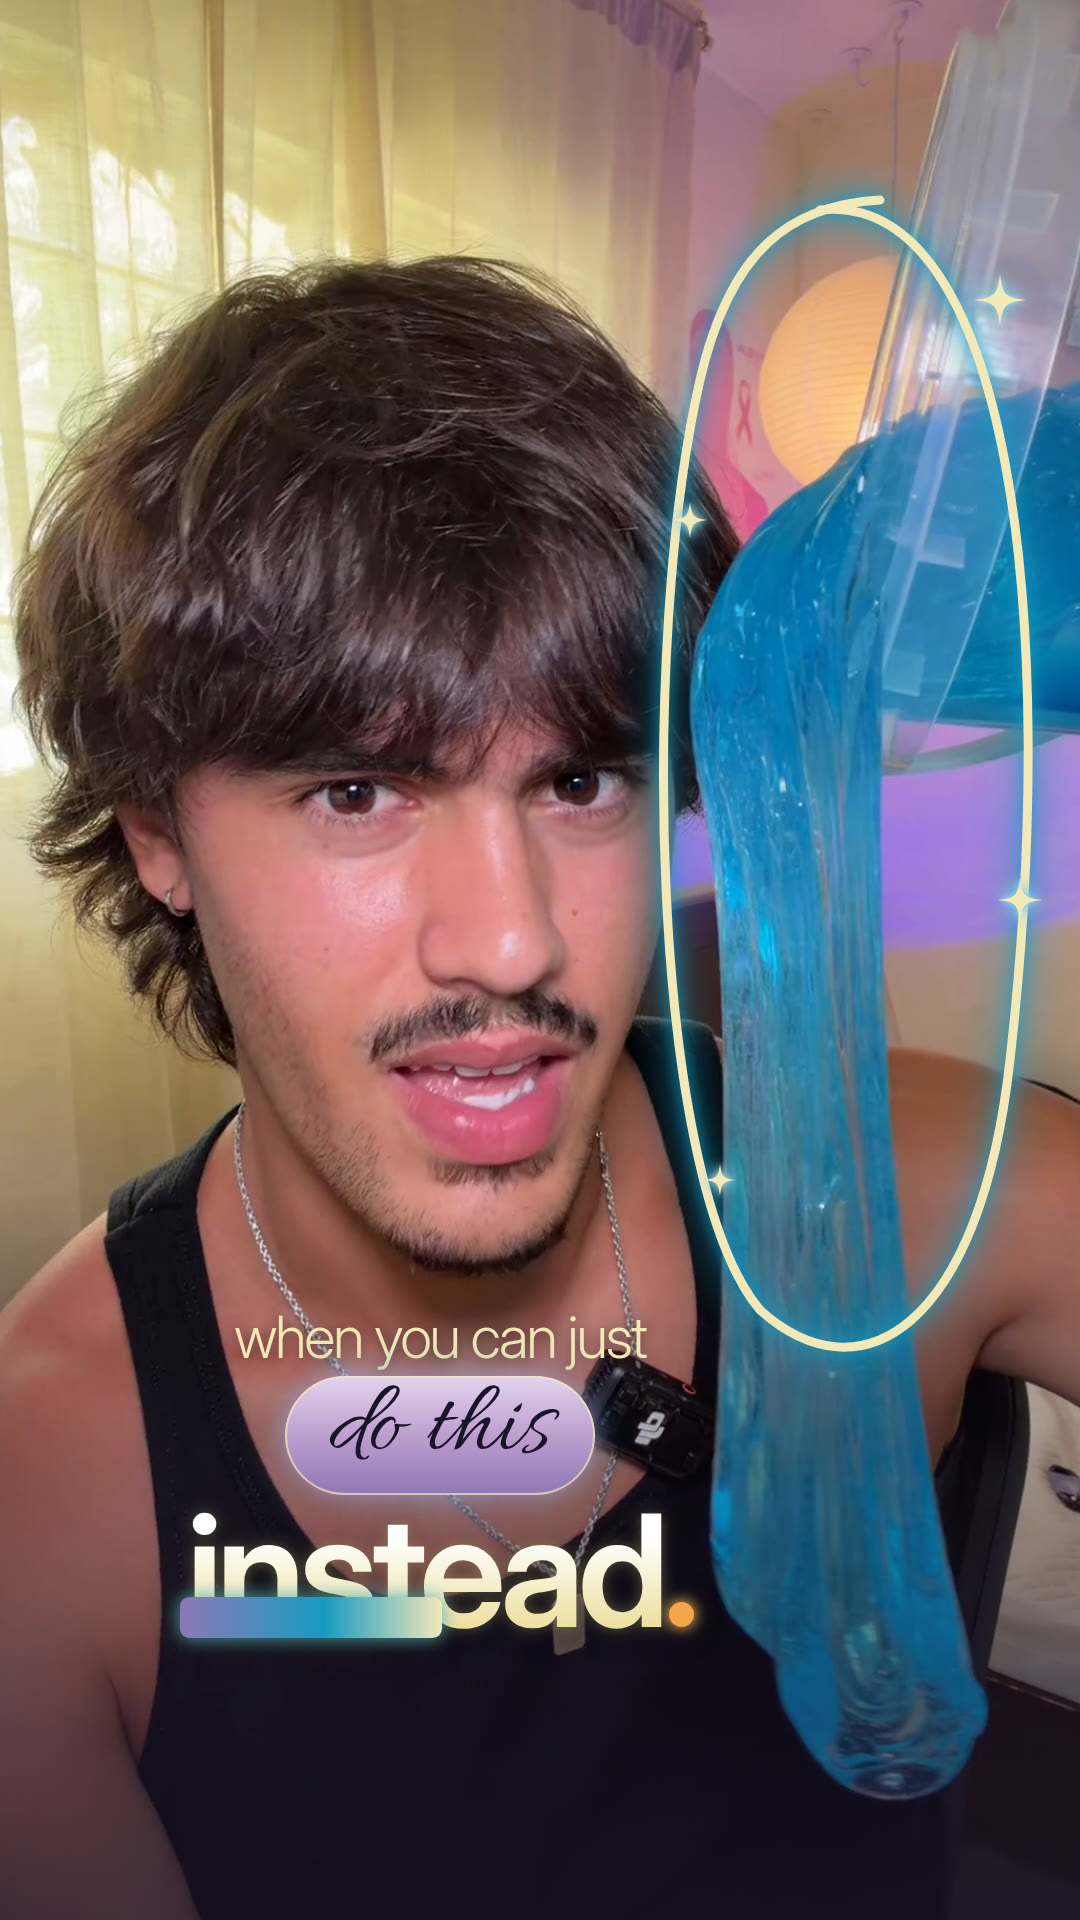
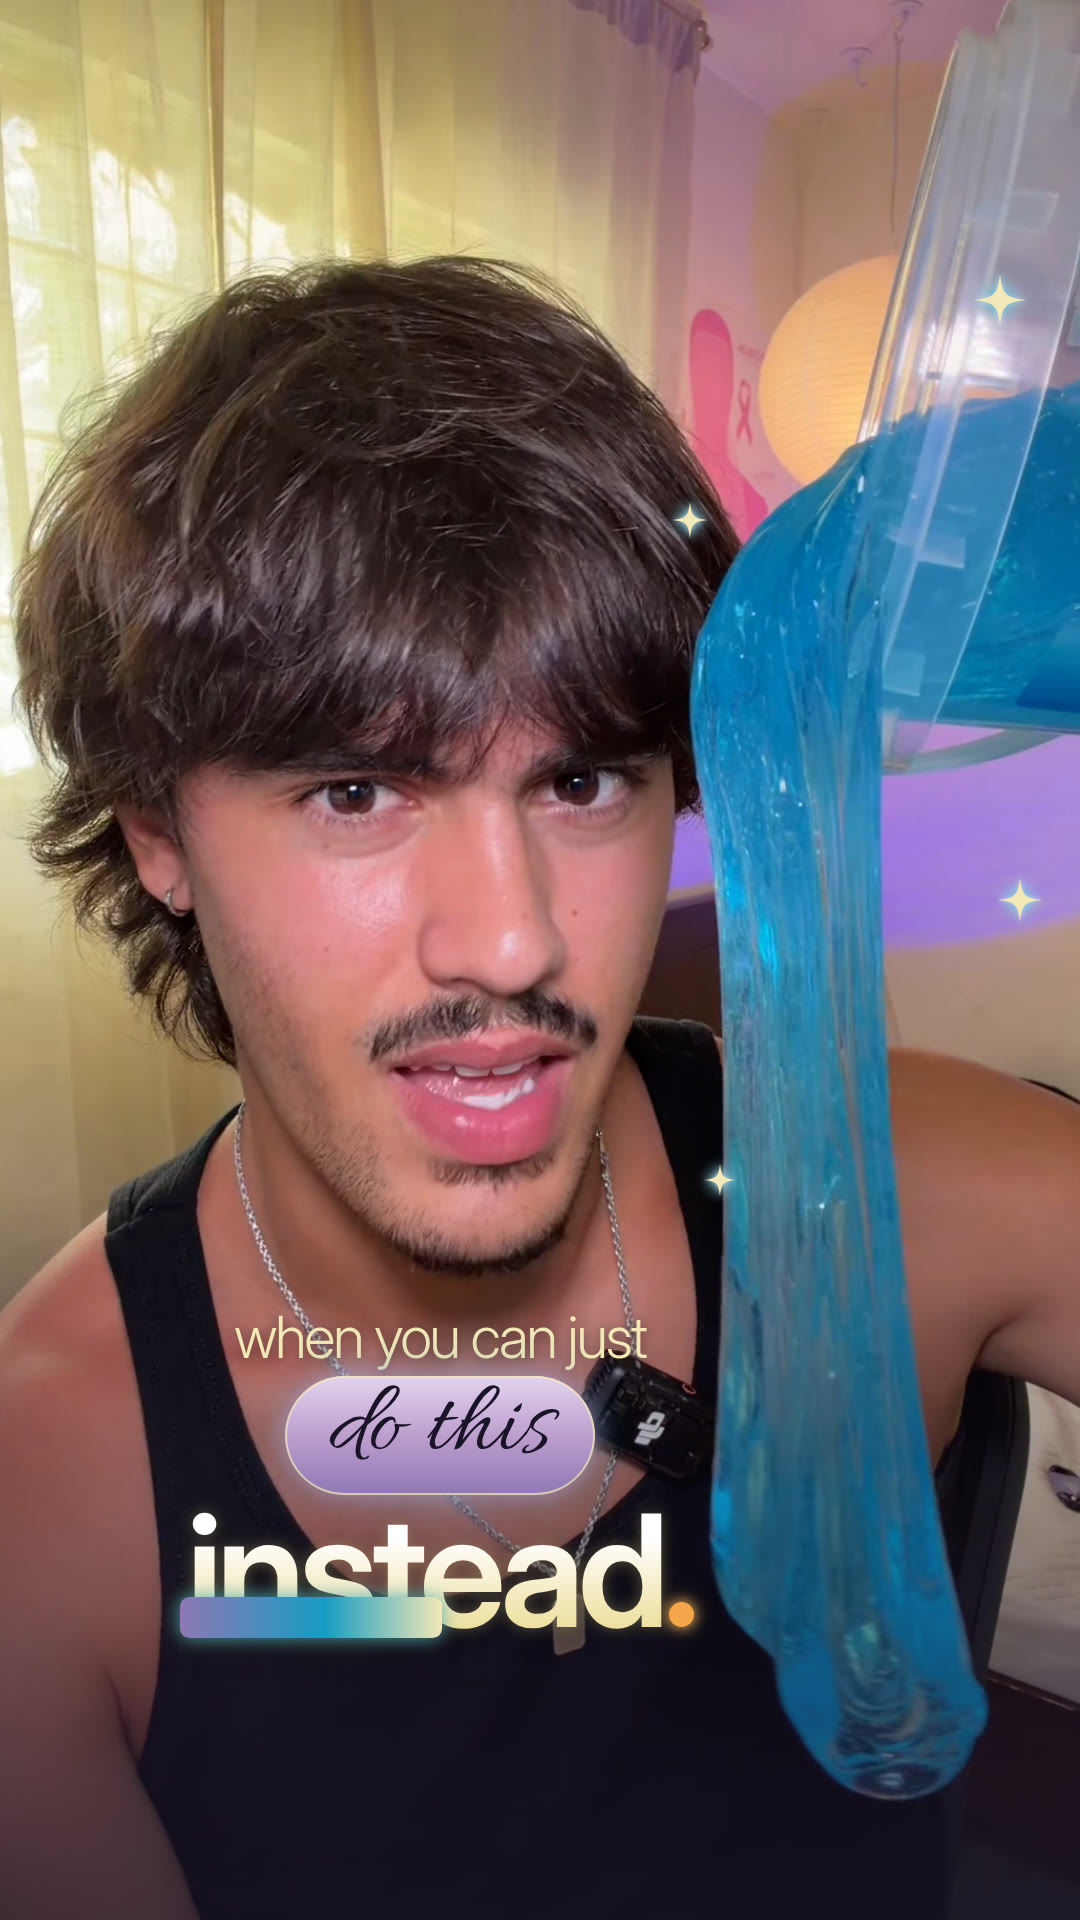
Storyboard v2.1: remove ring around the slime; record rejection in house style
Claude-Session: https://claude.ai/code/session_01YWNjHAUsnSqA5X69RXENKc

Changed region(s): [[0.5806, 0.0938, 0.9778, 0.7188]]

diff --git a/edits/bmw-m4-28-days/preview_v2/gen_preview_v2.py b/edits/bmw-m4-28-days/preview_v2/gen_preview_v2.py
@@ -205,10 +205,10 @@ FR["P03"] = dict(still="still_63.png", cut="cut_63.png", behind=title_block(), f
     label="f63 · 0:02.1 · NAME HIT — “PART-TIME” lands f43, “JOB” f57 behind the head · ghost trail · pixel clusters")
 FR["P04"] = dict(still="still_74.png", cut="cut_74.png", behind=title_block(strike=1, ghost=False) + slash(1), front=cap(setup(["when", "you", "can", "just"], 1, 1)),
     label="f74 · 0:02.5 · STRIKE — amber ink slash rips through the title on “when” · title drains colour, then drops away")
-FR["P05"] = dict(still="still_100.png", zoom=1.04, origin="850px 760px", front=ring(.45) + cap(setup(["when", "you", "can", "just"], 4, 0), pill("do this")),
-    label="f100 · 0:03.3 · “this” — camera eases toward the slime · hand-drawn ring starts circling it")
-FR["P06"] = dict(still="still_110.png", zoom=1.05, origin="850px 760px", front=ring(1) + sparkles([(1000,300,26),(690,520,18),(1020,900,22),(720,1180,16)]) + cap(setup(["when", "you", "can", "just"], 4, 0), pill("do this"), heavy("instead", 156, bar="55%")),
-    label="f110 · 0:03.7 · “instead.” blooms + highlight bar · ring closed · cyan-white sparkles twinkle on the slime")
+FR["P05"] = dict(still="still_100.png", zoom=1.04, origin="850px 760px", front=cap(setup(["when", "you", "can", "just"], 4, 0), pill("do this")),
+    label="f100 · 0:03.3 · “this” — camera eases toward the slime (focus pull)")
+FR["P06"] = dict(still="still_110.png", zoom=1.05, origin="850px 760px", front=sparkles([(1000,300,26),(690,520,18),(1020,900,22),(720,1180,16)]) + cap(setup(["when", "you", "can", "just"], 4, 0), pill("do this"), heavy("instead", 156, bar="55%")),
+    label="f110 · 0:03.7 · “instead.” blooms + highlight bar · cyan-white sparkles twinkle on the slime")
 beam = f"""<div class="L" style="clip-path:polygon(90px 150px,1080px 0,1080px 1920px,420px 1920px)">{explainer_world()}</div>
 <svg class="L" width="1080" height="1920"><defs><filter id="b"><feGaussianBlur stdDeviation="10"/></filter></defs>
 <line x1="90" y1="150" x2="1180" y2="-20" stroke="{IVORY}" stroke-width="22" filter="url(#b)" opacity=".9"/>

diff --git a/edits/bmw-m4-28-days/storyboard.md b/edits/bmw-m4-28-days/storyboard.md
@@ -1,7 +1,7 @@
-# Storyboard v2: "BMW M4 in 28 days" (awaiting approval)
+# Storyboard v2.1: "BMW M4 in 28 days" (awaiting approval)
 
 **Canvas:** 1080×1920 (9:16, source aspect), 30 fps, 9.53 s (286 frames), from `cut_tight.mp4`.
-**Board:** `preview_v2/board_v2.jpg` (13 moments, P01–P13). v1 is kept in `preview_v1/` for comparison.
+**Board:** `preview_v2/board_v2.jpg` (v2.1: no ring around the slime) (13 moments, P01–P13). v1 is kept in `preview_v1/` for comparison.
 **Script:** "Don't even think about getting that part-time job when you can just do this instead. If I had to buy a BMW M4 in the next 28 days, this is exactly what I would do."
 
 ## The story in one line
@@ -10,7 +10,7 @@
 | Act | Time | Story job | Visual idea | Mode |
 |---|---|---|---|---|
 | 1. The problem | 0.00–2.25 | Kill the obvious option | A thought bubble ("think"), then PART-TIME JOB behind the head, then an amber slash through it with a retro fail sting | caption → name behind the head |
-| 2. The alternative | 2.25–3.93 | Point at the slime | The camera drifts toward the slime, a hand-drawn ring circles it, sparkles, "instead." with a highlight bar | caption + concrete visual |
+| 2. The alternative | 2.25–3.93 | Point at the slime | The camera drifts toward the slime (focus pull), sparkles twinkle on it, "instead." with a highlight bar | caption + concrete visual |
 | 3. The goal | 3.93–6.23 | Make the dream tangible | A light-beam sweep into a lavender world; a comet lands, the card develops into the real white M4 and its headlights glint | full-background explainer |
 | 4. The deadline + promise | 6.23–9.53 | Urgency, then the hook | Flash back to you; a 28-cell calendar fills to Day 28 with a tiny M4 parked on it; punch-in on "exactly"; 3D close; "STEP 1" teases part 2 | chest card → caption close |
 
@@ -19,7 +19,7 @@ Mode rhythm: 1.4 s · 0.8 s (held 1.2 s) · 1.7 s · 2.3 s · 1.5 s · 1.8 s. Ev
 ## Palette (the colours you circled) and what each one does
 | Colour | Hex | Job in this edit |
 |---|---|---|
-| Warm ivory | `#F3E8B8` | Main caption text, card light tops, ring and ribbon cores, calendar circle |
+| Warm ivory | `#F3E8B8` | Main caption text, card light tops, ribbon core, calendar circle |
 | Pale butter | `#E8D98B` | Fill end of the heavy words, card gradient |
 | Soft lilac | `#B99ACB` | Script pill, glass borders, thought bubble, calendar cells, light pools |
 | Muted lavender | `#8E78B5` | Pill shading, explainer world, start of the highlight bar |
@@ -32,7 +32,7 @@ Mode rhythm: 1.4 s · 0.8 s (held 1.2 s) · 1.7 s · 2.3 s · 1.5 s · 1.8 s. Ev
 |---|---|---|
 | Face box | x 50–760, y 270–1000 | Nothing on it |
 | Window band | y 0–290 | Thought bubble, title (behind the head), STEP 1 pill |
-| Slime | x 680–1050 | Only the ring and sparkles go here |
+| Slime | x 680–1050 | Only the sparkles go here (no ring: removed at your request) |
 | Chest, left | x 40–440, y 1100–1430 | Calendar |
 | Captions | Bottom edge 270 px above the frame bottom; block shifted 100 px left of centre to clear the slime | 2–3 line lockup |
 
@@ -83,13 +83,12 @@ Group exit: blur 0→10 and fade over the last 7 f before the next group.
 **P05 · f84–108 · "just do this"** (board: f100)
 - f84: the pill "*do this*" pops and writes on.
 - f88–103: the **camera eases toward the slime**: scale 1.03→1.06 with the origin moved to the slime (850, 760), over 15 f, ease-in-out.
-- f93 "this": a **hand-drawn ring** draws around the slime (ivory 9 px stroke, cyan glow, 20 f, pen ease). The end overshoots past the start like a real marker loop.
+- f93 "this": the drift is the only move on "this". There's no ring around the slime; you asked for it to be removed in v2.
 
 **P06 · f103–117 · "instead."** (board: f110)
 - f103 "instead." does the **heavy bloom**: blur 16→0, brightness 1.6→1, scale 1.08→1 over 16 f.
 - The amber dot pops at f113. The **highlight bar** (lavender → cyan → ivory) wipes under the word f109–123.
 - f108–117: four **cyan-white sparkles** twinkle on the slime (scale 0→1→0.6, staggered 3 f, rotating 20°).
-- The ring holds and breathes (opacity 1↔0.8).
 
 ### Act 3 · The goal
 **P07 · f118–137 · "If I had"** (board: f126)
@@ -156,7 +155,6 @@ Group exit: blur 0→10 and fade over the last 7 f before the next group.
 | f43 | " | `whoosh_air` | 0.71 | 0.85 | name hit |
 | f43 | " | `impact` (attack aligned) | 1.39 | 0.8 | name hit, trimmed to 0.6 s |
 | f67 | Slash | `game_over` | 2.12 | 0.5 | retro fail sting |
-| f93 | Ring draws | `ref2_g_photostack` | 3.01 | 0.4 | line-path sound |
 | f118 | Beam cut | none | none | none | screen changes stay clean |
 | f146 | Comet + develop | `ref2_g_comet` | 4.60 | 0.3 | ducked: within 1 s before the name hit |
 | f154 | BMW lands | `ref_riser` / `whoosh_air` / `impact` | 4.07 / 4.41 / 5.09 | 0.8 / 0.85 / 0.8 | name hit |
